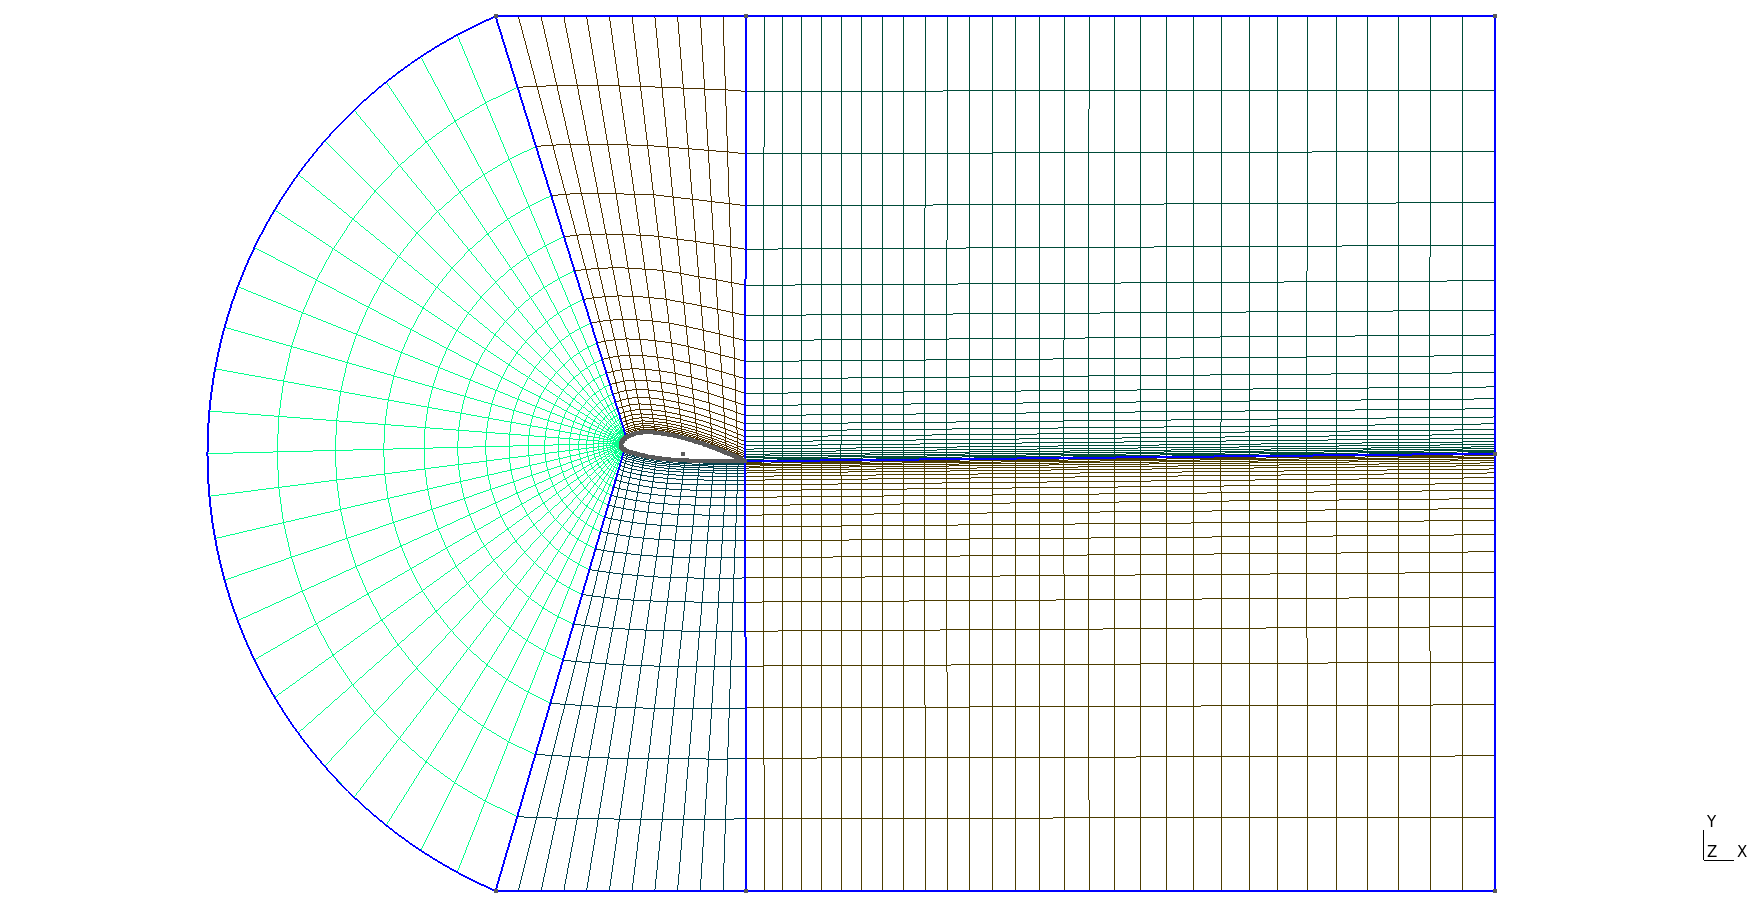
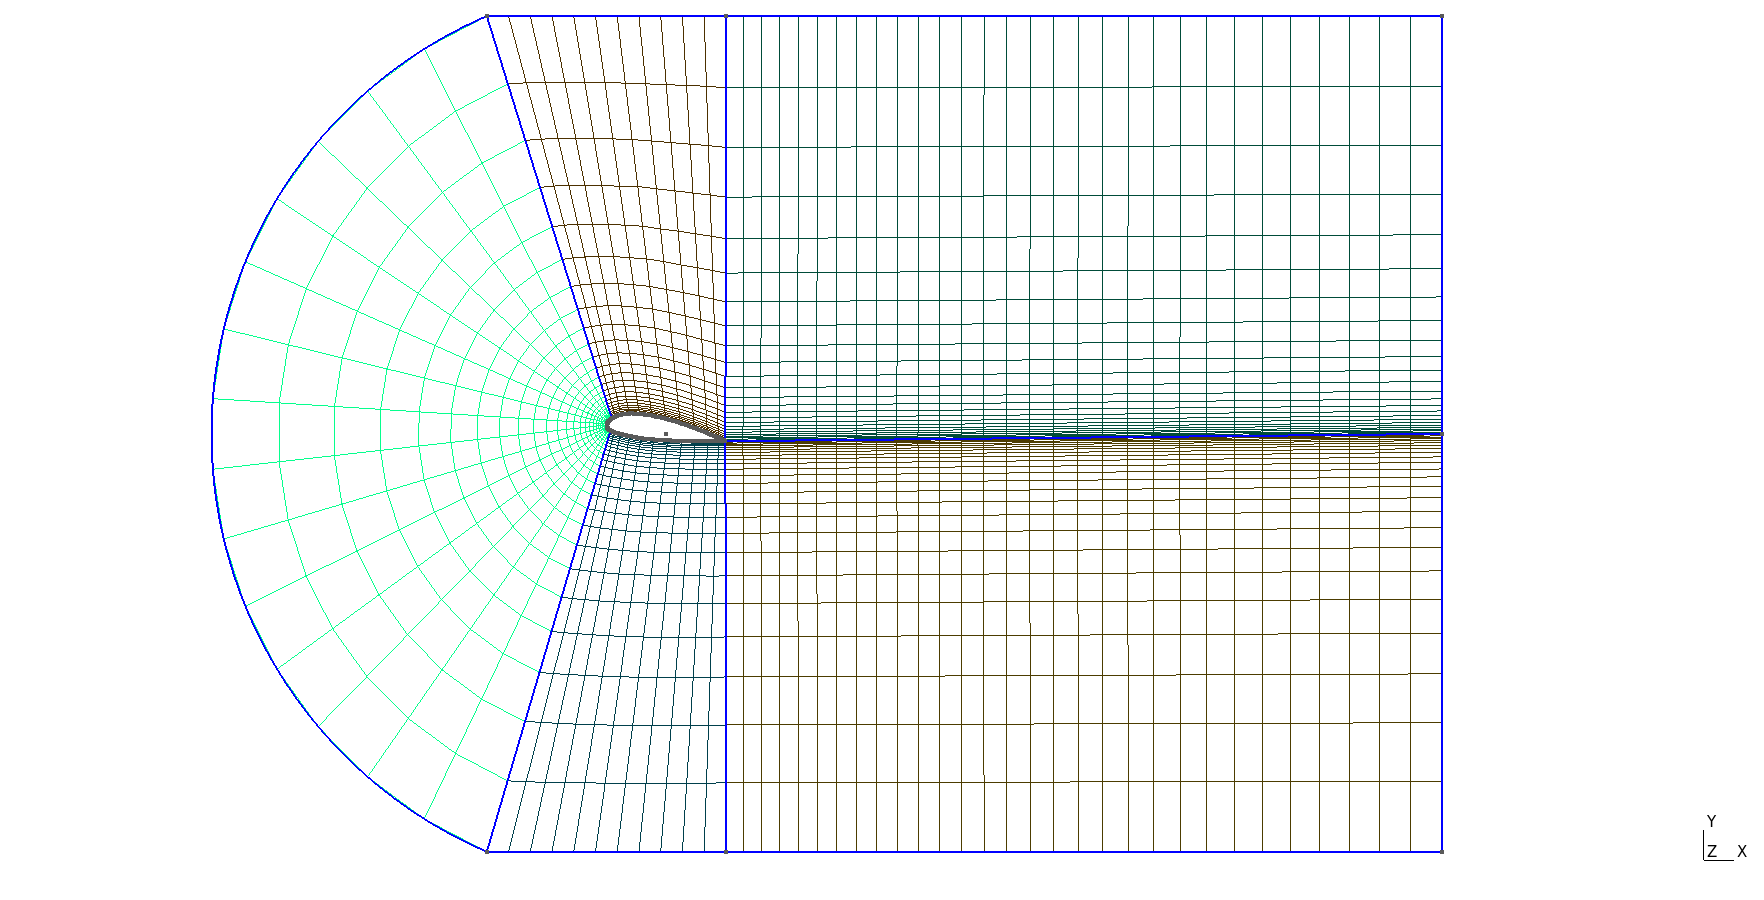
Fixed Ctype

diff --git a/gmshairfoil2d/geometry_def.py b/gmshairfoil2d/geometry_def.py
@@ -694,7 +694,7 @@ class AirfoilSpline:
 
     def gen_skin(self):
         """
-        Method to generate the two splines forming the foil, Only call this function when the points
+        Method to generate the three splines forming the foil, Only call this function when the points
         of the airfoil are in their final position
         -------
         """
@@ -719,6 +719,22 @@ class AirfoilSpline:
 
         # Create a spline for the front part of the airfoil
         self.front_spline = Spline(self.points[k2:]+self.points[:k1+1])
+        return self.upper_spline, self.lower_spline
+
+    def gen_skin_struct(self):
+        """
+        Method to generate the two splines forming the foil for structural mesh, Only call this function when the points
+        of the airfoil are in their final position
+        -------
+        """
+        # create a spline from the up middle point to the trailing edge (up part)
+        self.upper_spline = Spline(
+            self.points[self.le_indx: self.te_indx + 1])
+
+        # create a spline from the trailing edge to the up down point (down part)
+        self.lower_spline = Spline(
+            self.points[self.te_indx:]+self.points[:self.le_indx+1]
+        )
         return self.upper_spline, self.lower_spline
 
     def close_loop(self):
@@ -878,7 +894,7 @@ class CType:
                 break
 
         # Then split the splines : find the points where you want to split and split
-        upper_spline, lower_spline = self.airfoil_spline.gen_skin()
+        upper_spline, lower_spline = self.airfoil_spline.gen_skin_struct()
         self.le_upper_point = sorted(
             upper_spline.point_list, key=lambda p: p.x)[k]
         self.le_lower_point = sorted(

diff --git a/README.md b/README.md
@@ -90,13 +90,13 @@ gmshairfoil2d --airfoil e211 --aoa 8 --box 12x4 --format vtk --ui --no_bl
 
 
 
-To create a boxed mesh around a NACA 11-H-09 airfoil (the name in the database is "n11h9"), using the boundary layer with default parameters (first layer of height 3e-5, 35 layers and growth ratio of 1.2)
+To create a boxed mesh around a Chuch Hollinger CH 10-48-13 smoothed airfoil (the name in the database is "ch10sm"), using the boundary layer with default parameters (first layer of height 3e-5, 35 layers and growth ratio of 1.2)
 
 ```bash
-gmshairfoil2d --airfoil n11h9 --ui --box 2x1.4
+gmshairfoil2d --airfoil ch10sm --ui --box 2x1.4
 ```
 
-![GMSH result with 2D mesh with boundary layer, rectangular box](images/example_n11h9_bl.png)
+![GMSH result with 2D mesh with boundary layer, rectangular box](images/example_ch10sm_bl.png)
 
 
 To create a structural mesh around a Naca 4220 airfoil (the 4 digits code is obviously "4220"), with first layer height of 0.01, leading length of 1, wake length of 7, height of 6, and angle of attack of 7 degrees
